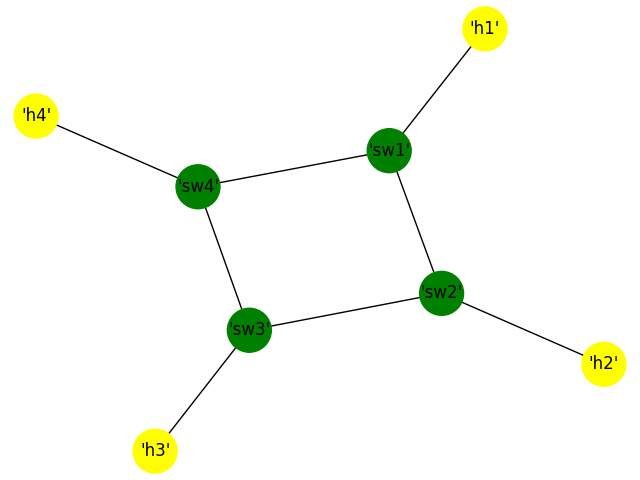
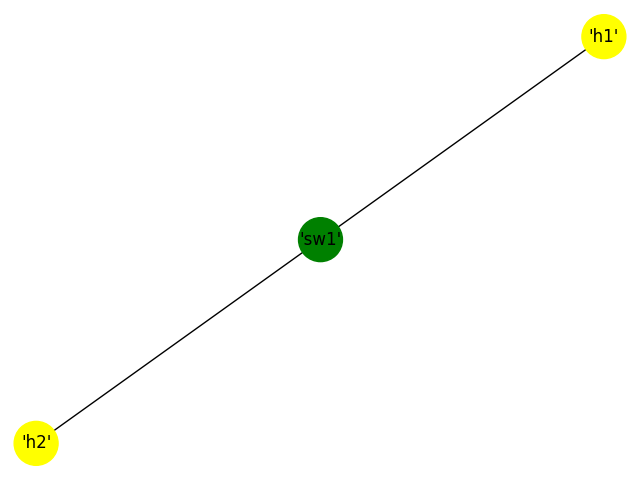
Simple topology

diff --git a/files/p4rt.py b/files/p4rt.py
@@ -20,18 +20,6 @@ te.match['ingress_port'] = '130'
 te.action['link']  = '1'
 te.insert()
 
-te = sh.TableEntry('SwitchIngress.vlan_fwd')(action='SwitchIngress.match')
-te.match['vid'] = '1920'
-te.match['ingress_port'] = '128'
-te.action['link']  = '2'
-te.insert()
-
-te = sh.TableEntry('SwitchIngress.vlan_fwd')(action='SwitchIngress.match')
-te.match['vid'] = '1920'
-te.match['ingress_port'] = '129'
-te.action['link']  = '3'
-te.insert()
-
 te = sh.TableEntry('SwitchIngress.arp_fwd')(action='SwitchIngress.match_arp')
 te.match['vid'] = '1920'
 te.match['ingress_port'] = '136'
@@ -44,30 +32,6 @@ te.match['ingress_port'] = '130'
 te.action['link']  = '1'
 te.insert()
 
-te = sh.TableEntry('SwitchIngress.arp_fwd')(action='SwitchIngress.match_arp')
-te.match['vid'] = '1920'
-te.match['ingress_port'] = '128'
-te.action['link']  = '2'
-te.insert()
-
-te = sh.TableEntry('SwitchIngress.arp_fwd')(action='SwitchIngress.match_arp')
-te.match['vid'] = '1920'
-te.match['ingress_port'] = '129'
-te.action['link']  = '3'
-te.insert()
-
-te = sh.TableEntry('SwitchIngress.basic_fwd')(action='SwitchIngress.send_next')
-te.match['sw'] = '4'
-te.match['dest_ip'] = '192.168.0.5'
-te.action['sw_id']  = '1'
-te.insert()
-
-te = sh.TableEntry('SwitchIngress.basic_fwd')(action='SwitchIngress.send_next')
-te.match['sw'] = '4'
-te.match['dest_ip'] = '192.168.0.1'
-te.action['sw_id']  = '0'
-te.insert()
-
 te = sh.TableEntry('SwitchIngress.basic_fwd')(action='SwitchIngress.send')
 te.match['sw'] = '1'
 te.match['dest_ip'] = '192.168.0.5'
@@ -77,7 +41,7 @@ te.insert()
 te = sh.TableEntry('SwitchIngress.basic_fwd')(action='SwitchIngress.send_next')
 te.match['sw'] = '1'
 te.match['dest_ip'] = '192.168.0.1'
-te.action['sw_id']  = '4'
+te.action['sw_id']  = '0'
 te.insert()
 
 te = sh.TableEntry('SwitchIngress.basic_fwd')(action='SwitchIngress.send')
@@ -89,139 +53,7 @@ te.insert()
 te = sh.TableEntry('SwitchIngress.basic_fwd')(action='SwitchIngress.send_next')
 te.match['sw'] = '0'
 te.match['dest_ip'] = '192.168.0.5'
-te.action['sw_id']  = '4'
-te.insert()
-
-te = sh.TableEntry('SwitchIngress.basic_fwd')(action='SwitchIngress.send_next')
-te.match['sw'] = '5'
-te.match['dest_ip'] = '192.168.0.2'
-te.action['sw_id']  = '2'
-te.insert()
-
-te = sh.TableEntry('SwitchIngress.basic_fwd')(action='SwitchIngress.send_next')
-te.match['sw'] = '5'
-te.match['dest_ip'] = '192.168.0.1'
-te.action['sw_id']  = '4'
-te.insert()
-
-te = sh.TableEntry('SwitchIngress.basic_fwd')(action='SwitchIngress.send_next')
-te.match['sw'] = '4'
-te.match['dest_ip'] = '192.168.0.2'
-te.action['sw_id']  = '5'
-te.insert()
-
-te = sh.TableEntry('SwitchIngress.basic_fwd')(action='SwitchIngress.send')
-te.match['sw'] = '2'
-te.match['dest_ip'] = '192.168.0.2'
-te.action['port']  = '128'
-te.insert()
-
-te = sh.TableEntry('SwitchIngress.basic_fwd')(action='SwitchIngress.send_next')
-te.match['sw'] = '2'
-te.match['dest_ip'] = '192.168.0.1'
-te.action['sw_id']  = '5'
-te.insert()
-
-te = sh.TableEntry('SwitchIngress.basic_fwd')(action='SwitchIngress.send_next')
-te.match['sw'] = '0'
-te.match['dest_ip'] = '192.168.0.2'
-te.action['sw_id']  = '4'
-te.insert()
-
-te = sh.TableEntry('SwitchIngress.basic_fwd')(action='SwitchIngress.send_next')
-te.match['sw'] = '5'
-te.match['dest_ip'] = '192.168.0.5'
 te.action['sw_id']  = '1'
-te.insert()
-
-te = sh.TableEntry('SwitchIngress.basic_fwd')(action='SwitchIngress.send_next')
-te.match['sw'] = '2'
-te.match['dest_ip'] = '192.168.0.5'
-te.action['sw_id']  = '5'
-te.insert()
-
-te = sh.TableEntry('SwitchIngress.basic_fwd')(action='SwitchIngress.send_next')
-te.match['sw'] = '1'
-te.match['dest_ip'] = '192.168.0.2'
-te.action['sw_id']  = '5'
-te.insert()
-
-te = sh.TableEntry('SwitchIngress.basic_fwd')(action='SwitchIngress.send_next')
-te.match['sw'] = '7'
-te.match['dest_ip'] = '192.168.0.3'
-te.action['sw_id']  = '3'
-te.insert()
-
-te = sh.TableEntry('SwitchIngress.basic_fwd')(action='SwitchIngress.send_next')
-te.match['sw'] = '7'
-te.match['dest_ip'] = '192.168.0.1'
-te.action['sw_id']  = '0'
-te.insert()
-
-te = sh.TableEntry('SwitchIngress.basic_fwd')(action='SwitchIngress.send')
-te.match['sw'] = '3'
-te.match['dest_ip'] = '192.168.0.3'
-te.action['port']  = '129'
-te.insert()
-
-te = sh.TableEntry('SwitchIngress.basic_fwd')(action='SwitchIngress.send_next')
-te.match['sw'] = '3'
-te.match['dest_ip'] = '192.168.0.1'
-te.action['sw_id']  = '7'
-te.insert()
-
-te = sh.TableEntry('SwitchIngress.basic_fwd')(action='SwitchIngress.send_next')
-te.match['sw'] = '0'
-te.match['dest_ip'] = '192.168.0.3'
-te.action['sw_id']  = '7'
-te.insert()
-
-te = sh.TableEntry('SwitchIngress.basic_fwd')(action='SwitchIngress.send_next')
-te.match['sw'] = '7'
-te.match['dest_ip'] = '192.168.0.5'
-te.action['sw_id']  = '4'
-te.insert()
-
-te = sh.TableEntry('SwitchIngress.basic_fwd')(action='SwitchIngress.send_next')
-te.match['sw'] = '4'
-te.match['dest_ip'] = '192.168.0.3'
-te.action['sw_id']  = '7'
-te.insert()
-
-te = sh.TableEntry('SwitchIngress.basic_fwd')(action='SwitchIngress.send_next')
-te.match['sw'] = '3'
-te.match['dest_ip'] = '192.168.0.5'
-te.action['sw_id']  = '7'
-te.insert()
-
-te = sh.TableEntry('SwitchIngress.basic_fwd')(action='SwitchIngress.send_next')
-te.match['sw'] = '1'
-te.match['dest_ip'] = '192.168.0.3'
-te.action['sw_id']  = '4'
-te.insert()
-
-te = sh.TableEntry('SwitchIngress.basic_fwd')(action='SwitchIngress.send_next')
-te.match['sw'] = '6'
-te.match['dest_ip'] = '192.168.0.3'
-te.action['sw_id']  = '3'
-te.insert()
-
-te = sh.TableEntry('SwitchIngress.basic_fwd')(action='SwitchIngress.send_next')
-te.match['sw'] = '6'
-te.match['dest_ip'] = '192.168.0.2'
-te.action['sw_id']  = '2'
-te.insert()
-
-te = sh.TableEntry('SwitchIngress.basic_fwd')(action='SwitchIngress.send_next')
-te.match['sw'] = '3'
-te.match['dest_ip'] = '192.168.0.2'
-te.action['sw_id']  = '6'
-te.insert()
-
-te = sh.TableEntry('SwitchIngress.basic_fwd')(action='SwitchIngress.send_next')
-te.match['sw'] = '2'
-te.match['dest_ip'] = '192.168.0.3'
-te.action['sw_id']  = '6'
 te.insert()
 
 te = sh.TableEntry('SwitchIngress.vlan_fwd')(action='SwitchIngress.send_direct')

diff --git a/main.py b/main.py
@@ -26,28 +26,17 @@ topo.addrec_port(68)
 
 # addswitch(name)
 topo.addswitch("sw1")
-topo.addswitch("sw2")
-topo.addswitch("sw3")
-topo.addswitch("sw4")
 
 # addhost(name,port,D_P,speed_bps,AU,FEC,vlan)
 # include the link configuration
 topo.addhost("h1","2/0", 136, 10000000000, "False", "False", 1920, "192.168.0.1")
 topo.addhost("h2","1/2", 130, 10000000000, "False", "False", 1920, "192.168.0.5")
-topo.addhost("h3","1/0", 128, 10000000000, "False", "False", 1920, "192.168.0.2")
-topo.addhost("h4","1/1", 129, 10000000000, "False", "False", 1920, "192.168.0.3")
 
 
 # addlink(node1, node2, bw, pkt_loss, latency, jitter, percentage)
 # bw is considered just for the first defined link
 topo.addlink("h1","sw1", 10000000000, 0, 5, 2, 100)
-topo.addlink("h2","sw2", 10000000000, 0, 5, 2, 100)
-topo.addlink("h3","sw3", 10000000000, 0, 5, 2, 100)
-topo.addlink("h4","sw4", 10000000000, 0, 5, 2, 100)
-topo.addlink("sw1","sw2", 10000000000, 0, 5, 2, 100)
-topo.addlink("sw2","sw3", 10000000000, 0, 5, 2, 100)
-topo.addlink("sw3","sw4", 10000000000, 0, 5, 2, 100)
-topo.addlink("sw4","sw1", 10000000000, 0, 5, 2, 100)
+topo.addlink("sw1","h2", 10000000000, 0, 5, 2, 100)
 
 # addvlan_port(port,D_P,speed_bps,AU,FEC)
 # Vlan and port not P7 process
